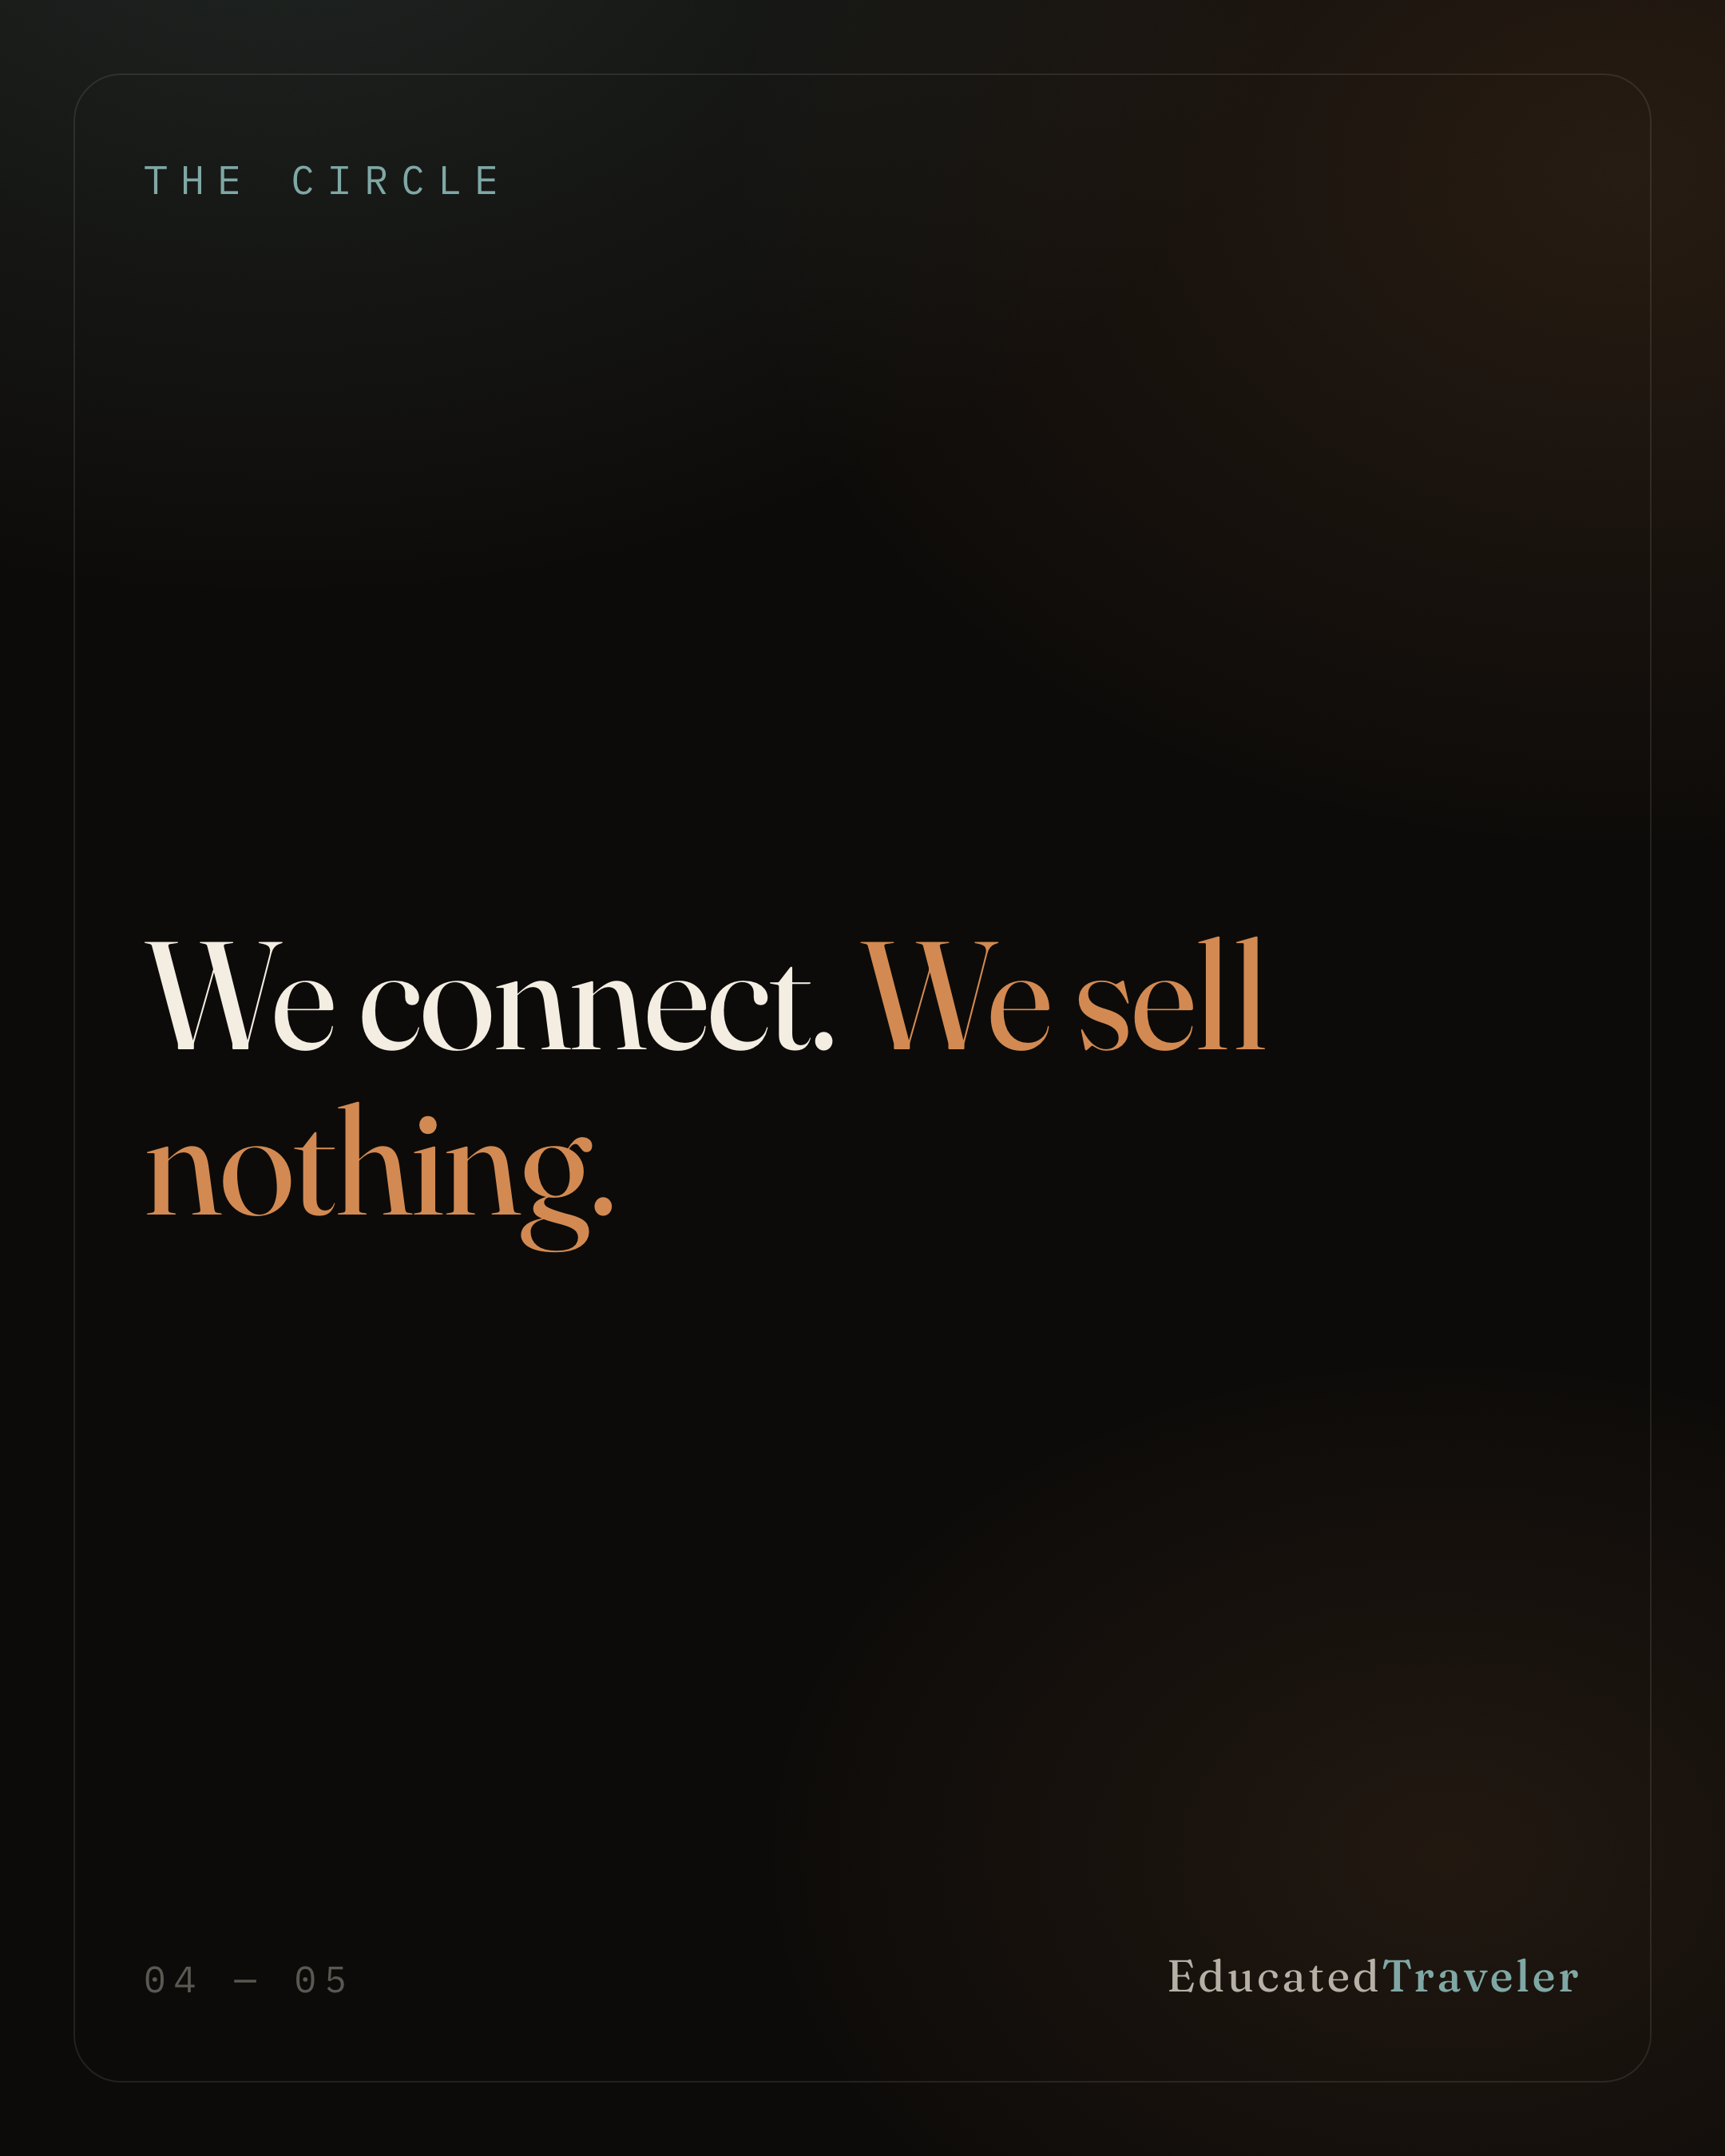
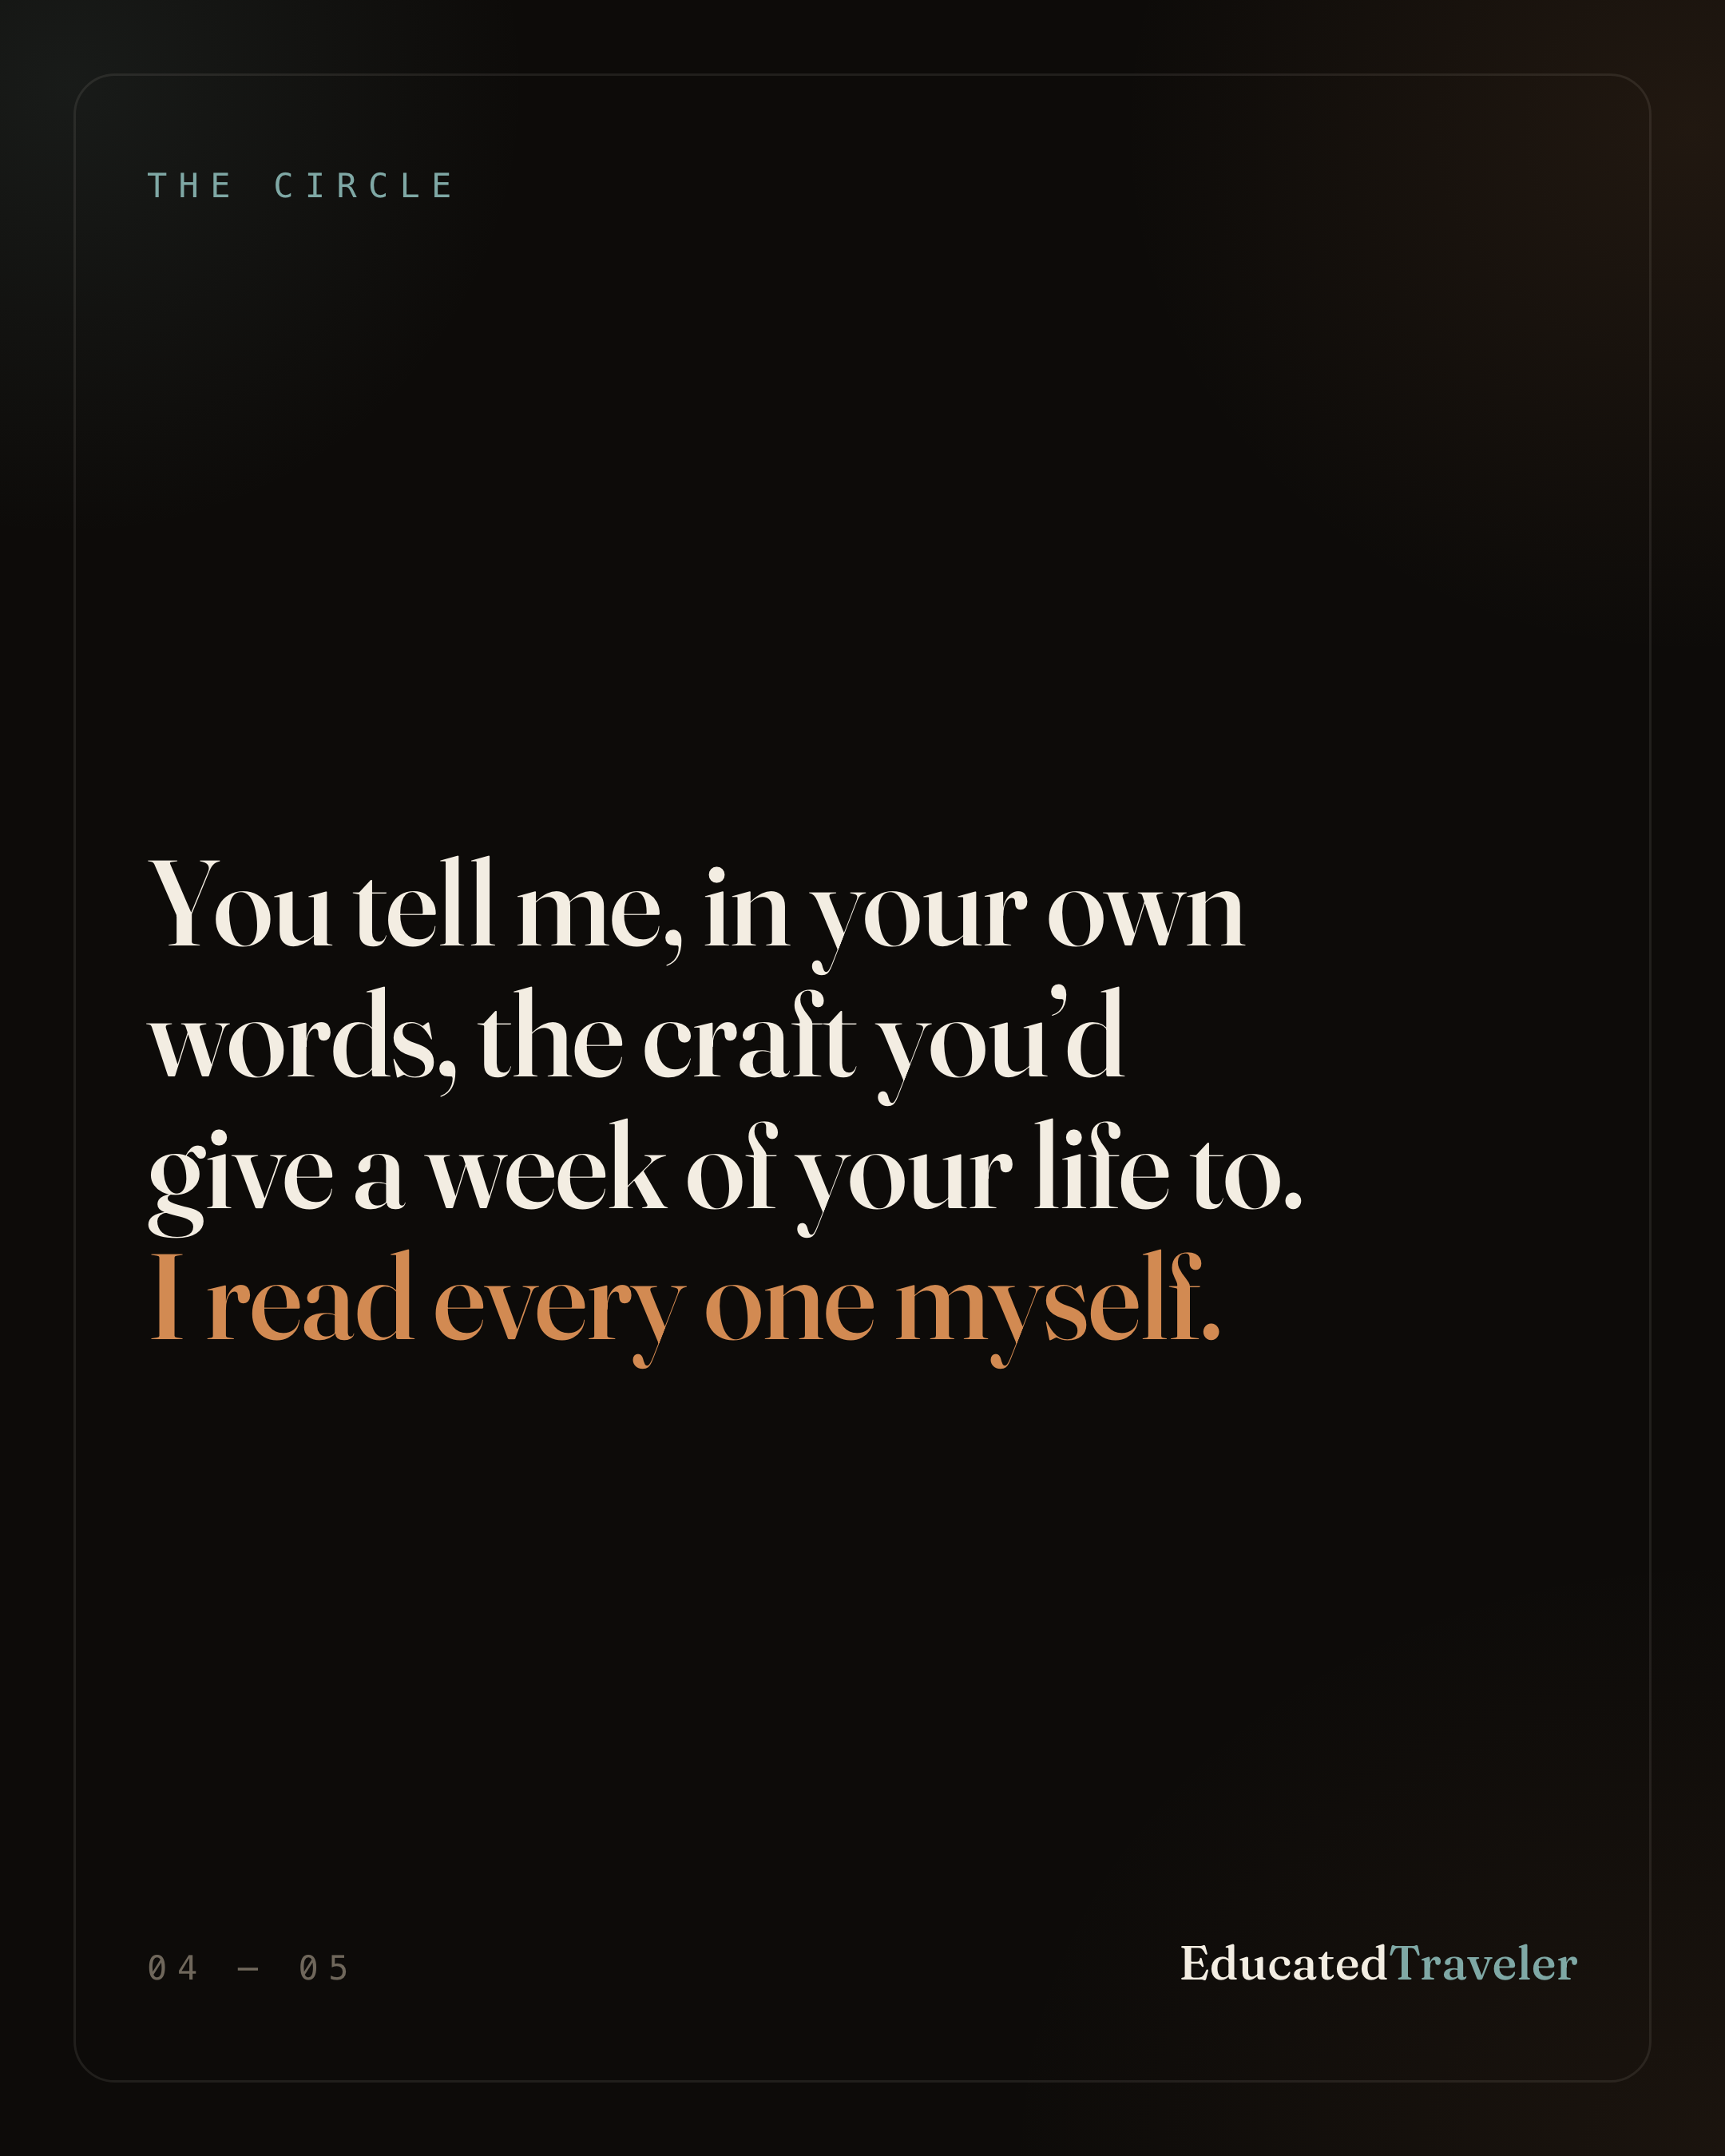
circle post: re-render slides 3-4 to the letter framing; align slide-5 text
The carousel images lagged the copy: slides 3-4 still read "the Circle
introduces you" / "We sell nothing", contradicting the caption's "it's a
letter you write me". Re-rendered both in the ET lock (Fraunces + IBM Plex
Mono, ink/paper/sea/ember). Slide 5 kept ("Tell us what pulls you.") and the
Studio slide-5 text aligned to it; cleared the stale re-render note.

diff --git a/website/js/studio-posts.js b/website/js/studio-posts.js
@@ -188,13 +188,13 @@ window.ET_POSTS = [
       "/images/posts/circle/slide-03.png", "/images/posts/circle/slide-04.png",
       "/images/posts/circle/slide-05.png",
     ],
-    imageNote: "Branded slides (1080×1350), one per card. NOTE: slides 3-5 copy changed to the letter framing — re-render those PNGs to match (the old ones read 'the Circle introduces you' / 'join the Circle').",
+    imageNote: "Branded slides (1080×1350), one per card. All five re-rendered to the letter framing (2026-07-18) — slides 3–4 now read 'you write me a letter' / 'I read every one myself'; slide 5 closes on 'Tell us what pulls you.'",
     slides: [
       "There's a place where the craft you love is still truly alive.",
       "A real master still teaching it — and the few others chasing the same fire.",
       "The Atlas maps where it lives. The Circle is how you get in — you write me a letter.",
       "You tell me, in your own words, the craft you'd give a week of your life to. I read every one myself.",
-      "I don't sell you a week. I find the master, the place, your people — then I open the door.",
+      "Tell us what pulls you.",
     ],
     caption:
 "The Circle isn't a newsletter you sign up for. It's a letter you write me.\n\nYou tell me — in your own words — the one craft you'd give a week of your life to learn, and why it pulls at you. I read every letter myself. Then I go find the real thing: the master still teaching by hand, the place where the craft is genuinely alive, and the handful of others chasing the same fire. When it's real, I write you back and open the door.\n\nI don't sell you a week. I build it, then I open the door. We connect. We sell nothing.\n\nTake your place: https://educatedtraveler.app/portrait",